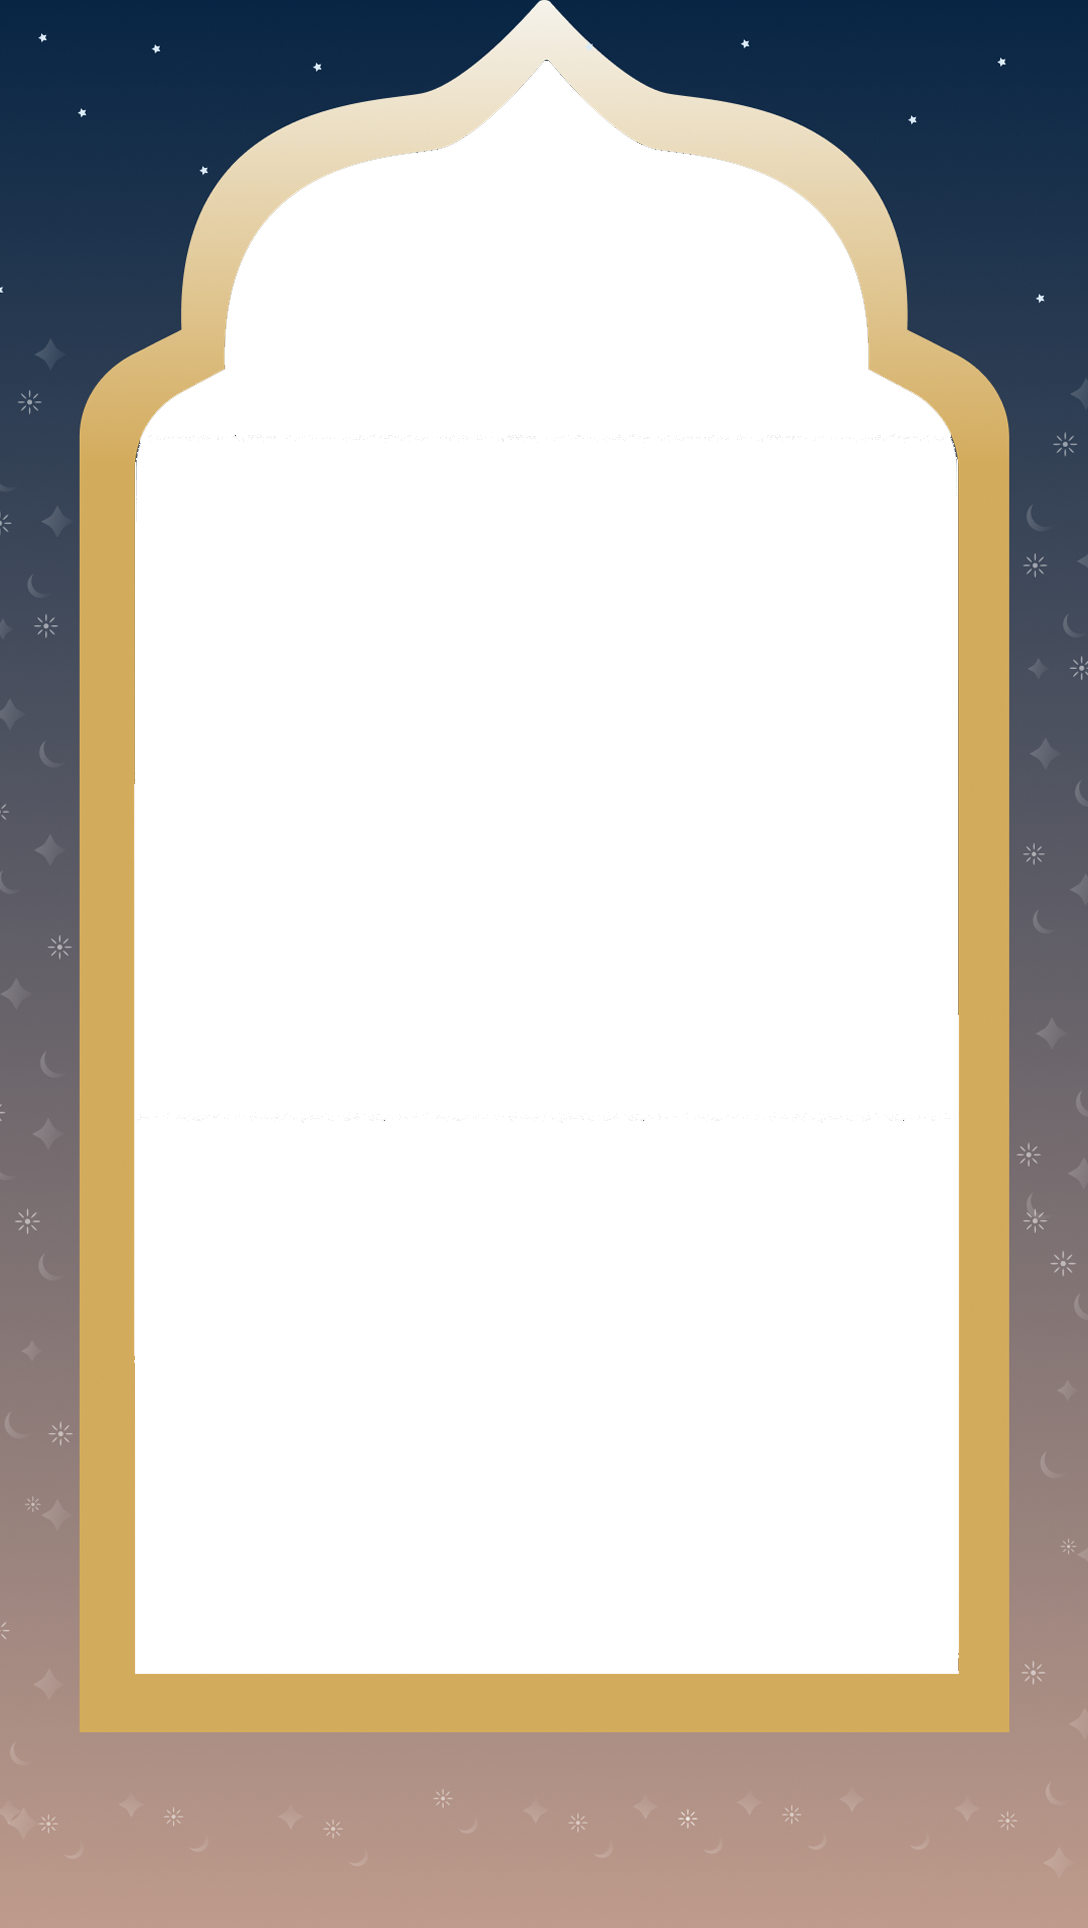
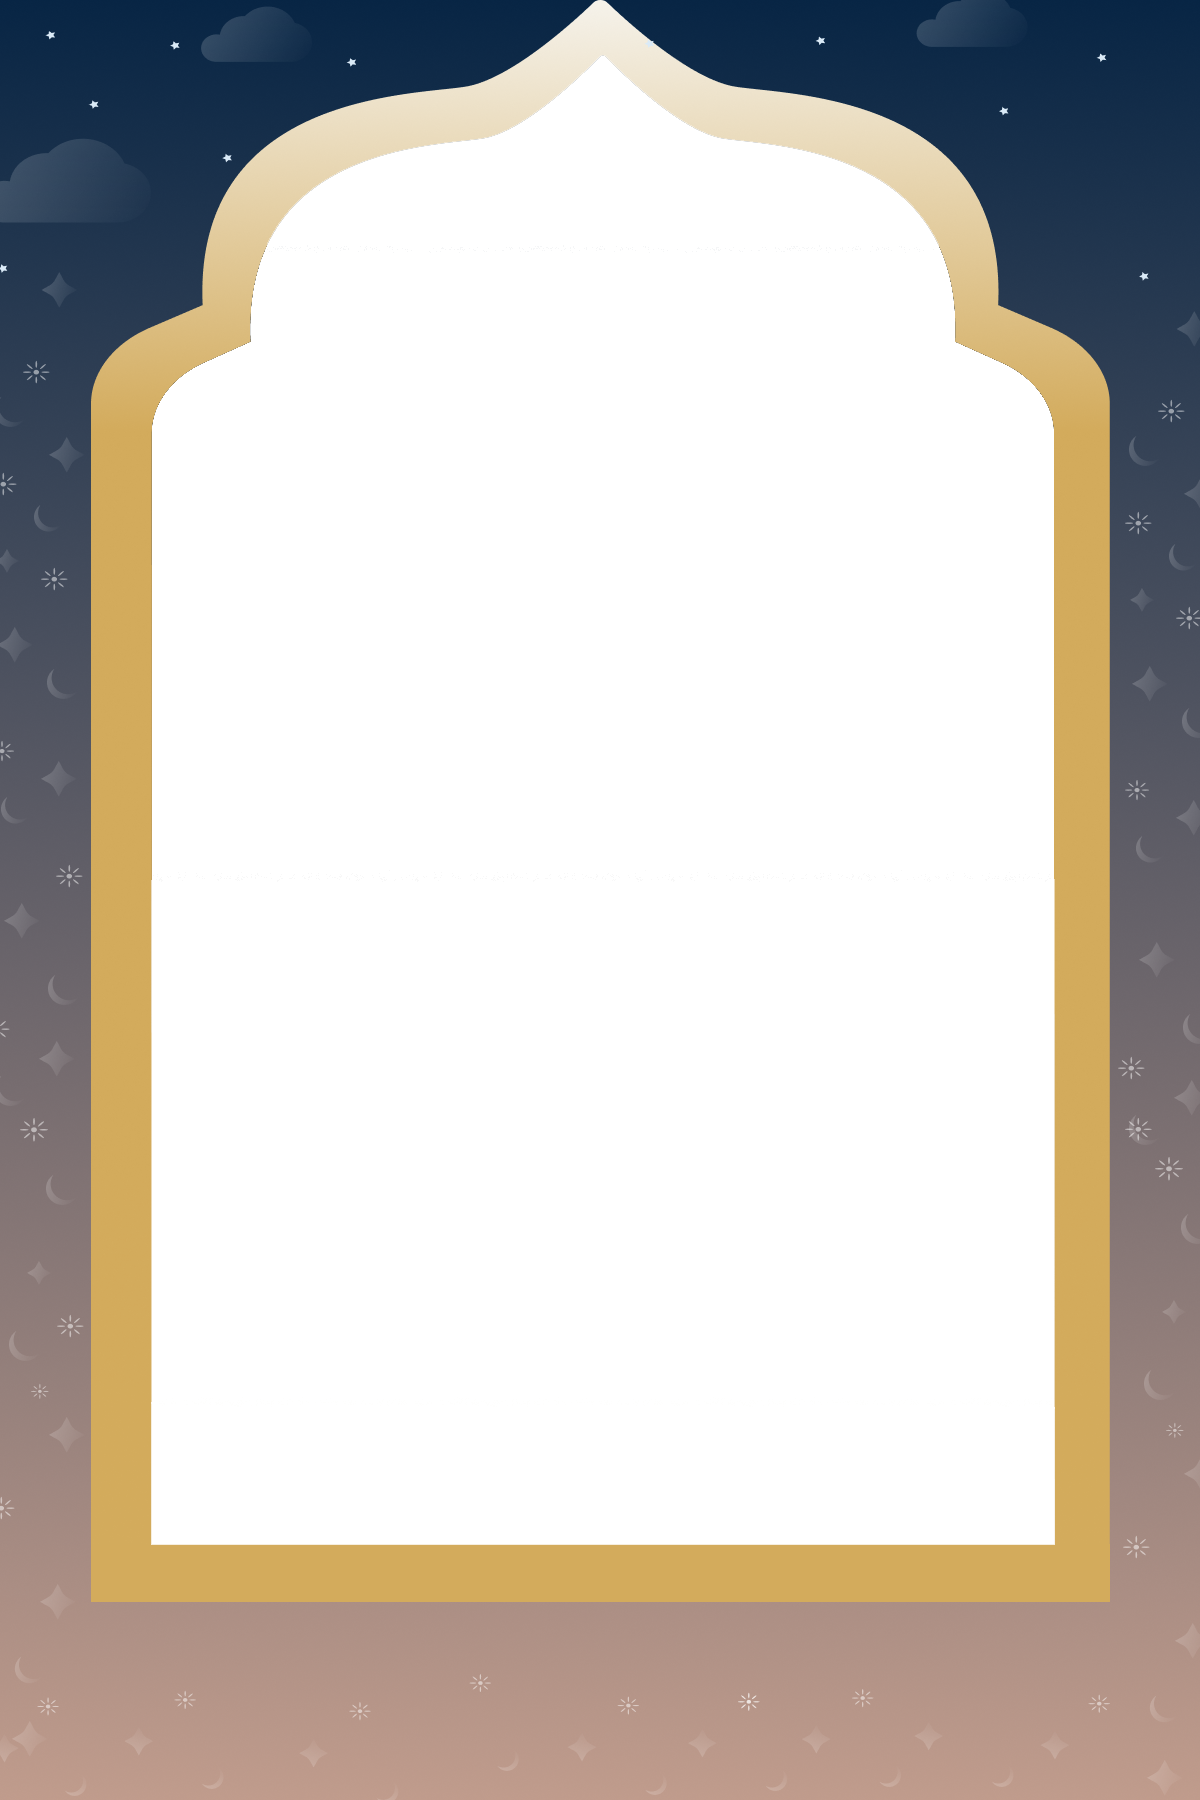
Stable WIP

diff --git a/services/stampService.ts b/services/stampService.ts
@@ -45,24 +45,24 @@ export const applyEraStamp = (imageSrc: string, era: EraData): Promise<string> =
                 return;
             }
 
-            // Fixed canvas size for portrait (1080x1920)
-            canvas.width = 1080;
-            canvas.height = 1920;
+            // Fixed canvas size for 4x6 portrait (1200x1800)
+            canvas.width = 1200;
+            canvas.height = 1800;
 
-            // 1. Draw Main Image - Figma-aligned layout:
+            // 1. Draw Main Image - Figma-aligned layout (adjusted for 1200 width):
             //    Scale to arch inner width, anchor image to top of arch opening.
-            //    Matches Figma spec: image width 968px in 1080 canvas, top-anchored.
-            const archSideInset = 56;  // ~56px each side (1080 - 968) / 2
-            const archTopOffset = 0;   // anchored to very top of canvas
-            const archInnerWidth = canvas.width - archSideInset * 2; // 968px
+            //    Previous 968/1080 ratio is ~89.6%
+            const archSideInset = 62;  // (1200 - 1076) / 2
+            const archTopOffset = 0;
+            const archInnerWidth = 1076;
 
             // Scale image so its width fills the arch inner width
             const imageScale = archInnerWidth / mainImage.width;
             const scaledWidth = archInnerWidth;
             const scaledHeight = mainImage.height * imageScale;
 
-            const drawX = archSideInset; // aligned to arch left edge
-            const drawY = archTopOffset; // anchored to top of arch opening
+            const drawX = archSideInset;
+            const drawY = archTopOffset;
 
             ctx.drawImage(mainImage, drawX, drawY, scaledWidth, scaledHeight);
 
@@ -70,26 +70,26 @@ export const applyEraStamp = (imageSrc: string, era: EraData): Promise<string> =
             ctx.drawImage(frameImg, 0, 0, canvas.width, canvas.height);
 
             // 3. Draw Lantern - Top Left (Fixed "Stamp")
-            const lanternWidth = 160;
+            const lanternWidth = 180;
             const lanternHeight = lanternImg.height * (lanternWidth / lanternImg.width);
-            const lanternX = 35;
+            const lanternX = 40;
             const lanternY = -5;
 
             ctx.drawImage(lanternImg, lanternX, lanternY, lanternWidth, lanternHeight);
 
             // 4. Draw Ramadan Kareem Logo - Top Center
-            const logoWidth = 160;
+            const logoWidth = 180;
             const logoHeight = logoImg.height * (logoWidth / logoImg.width);
             const logoX = (canvas.width - logoWidth) / 2;
-            const logoY = 120;
+            const logoY = 130;
 
             ctx.drawImage(logoImg, logoX, logoY, logoWidth, logoHeight);
 
             // 5. Draw Powered By Logo - Bottom Right area "Stamp"
-            const pWidth = 110;
+            const pWidth = 120;
             const pHeight = poweredByImg.height * (pWidth / poweredByImg.width);
-            const pX = canvas.width - pWidth - 150;
-            const pY = canvas.height - pHeight - 30;
+            const pX = canvas.width - pWidth - 170;
+            const pY = canvas.height - pHeight - 35;
 
             ctx.drawImage(poweredByImg, pX, pY, pWidth, pHeight);
 

diff --git a/components/ResultScreen.tsx b/components/ResultScreen.tsx
@@ -201,14 +201,26 @@ export const ResultScreen: React.FC<ResultScreenProps> = ({ imageSrc, prompt, er
   };
 
   return (
-    <div className="h-full w-full relative overflow-hidden bg-black flex flex-col items-center justify-center">
-      {/* 1. Main Framed Image Display - Full Screen */}
-      <div className="absolute inset-0 z-0">
+    <div className="h-full w-full relative overflow-hidden bg-slate-950 flex flex-col items-center justify-center">
+      {/* 1. Background Layer */}
+      <div className="absolute inset-0 z-0 overflow-hidden">
         <img
-          src={imageSrc}
-          alt="Final Composition"
-          className="w-full h-full object-fill animate-scale-in"
+          src="./Backgrounds/Generic-Background.jpg"
+          alt="Background"
+          className="w-full h-full object-cover brightness-[0.85]"
         />
+        <div className="absolute inset-0 bg-black/20 backdrop-blur-[2px]" />
+      </div>
+
+      {/* 2. Main Framed Image Display - Centered 2:3 */}
+      <div className="relative z-10 w-full max-w-[90vw] h-[75vh] flex items-center justify-center mb-24 px-4 animate-scale-in">
+        <div className="h-full aspect-[2/3] relative shadow-[0_20px_80px_rgba(0,0,0,0.8)] rounded-lg overflow-hidden border border-white/10">
+          <img
+            src={imageSrc}
+            alt="Final Composition"
+            className="w-full h-full object-contain"
+          />
+        </div>
       </div>
 
       {/* Printing Feedback Overlay */}

diff --git a/App.tsx b/App.tsx
@@ -142,14 +142,14 @@ const App: React.FC = () => {
     <div className="h-[100dvh] w-screen bg-slate-900 text-slate-100 flex flex-col overflow-hidden relative">
       {currentScreen !== AppScreen.RESULT && (
         <img
-          src="/Lantern.png"
+          src="./Lantern.png"
           alt="Ramadan Lantern"
           className="absolute -top-2 left-6 w-32 md:w-40 z-[150] pointer-events-none animate-swing origin-top drop-shadow-[0_10px_15px_rgba(0,0,0,0.5)]"
         />
       )}
       {currentScreen !== AppScreen.RESULT && (
         <img
-          src="/Splash-Screen/Ramadan-Kareem.png"
+          src="./Splash-Screen/Ramadan-Kareem.png"
           alt="Ramadan Kareem"
           className="absolute top-28 left-1/2 -translate-x-1/2 w-36 md:w-44 z-[150] pointer-events-none drop-shadow-2xl animate-pulse"
         />
